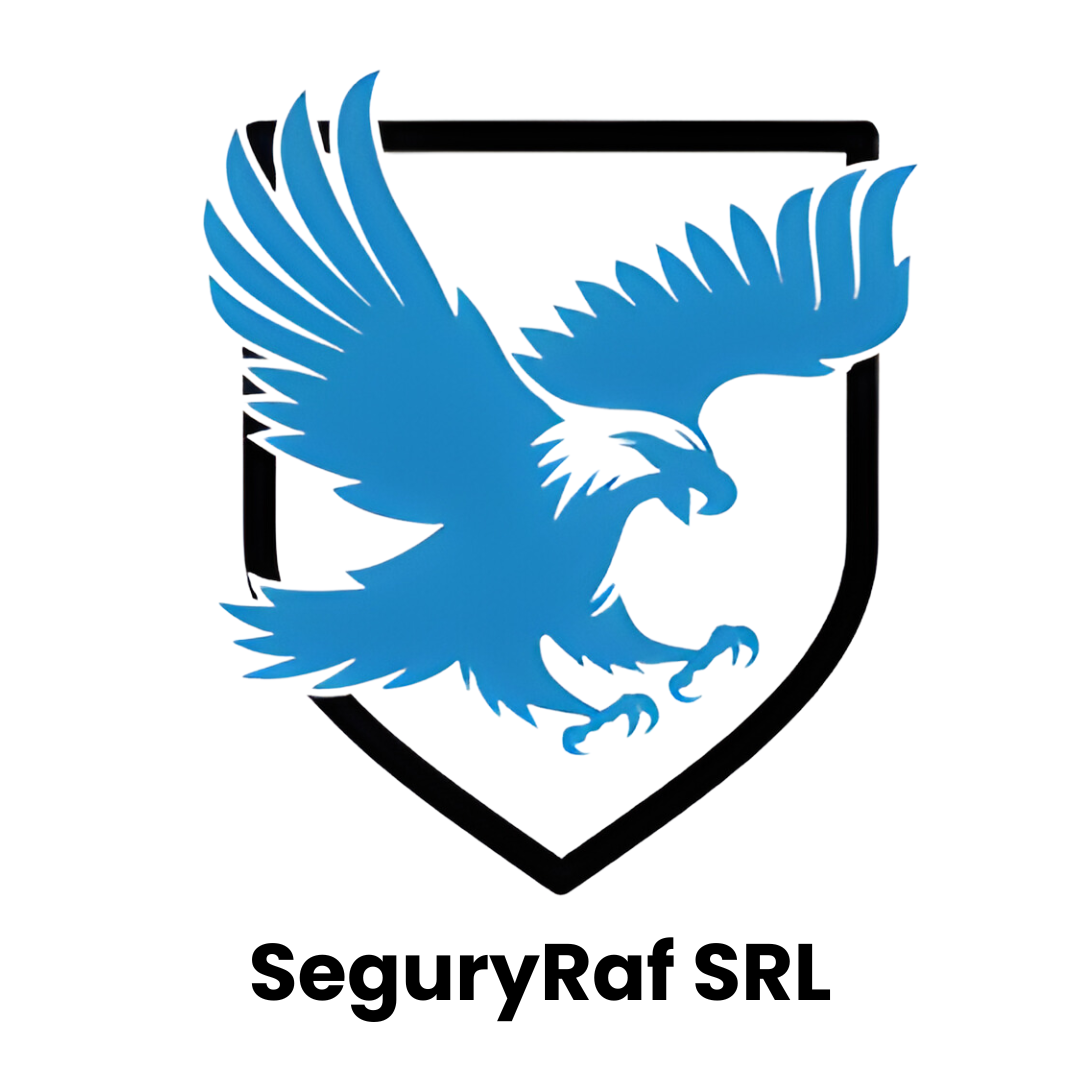
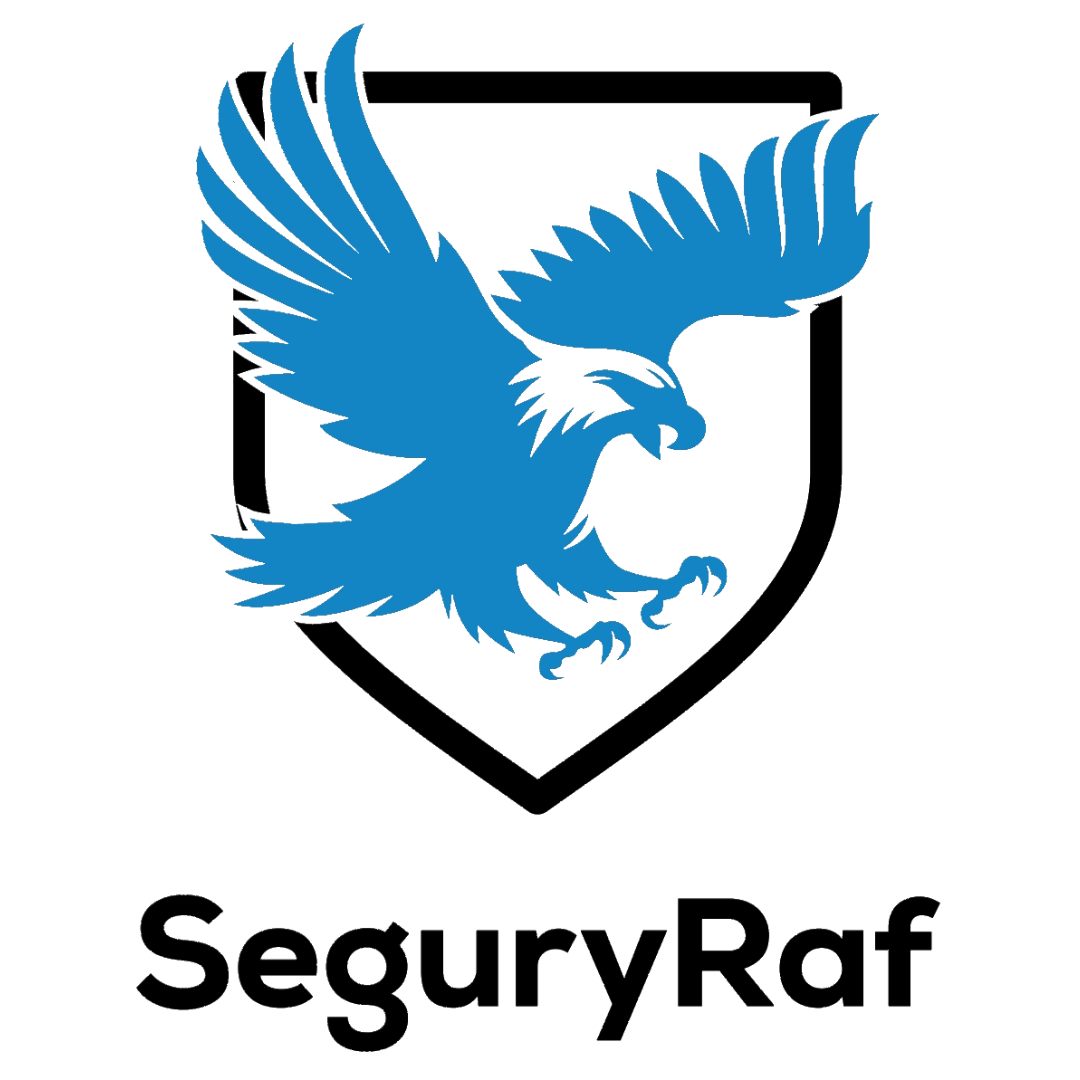
cliente nuevo

Changed region(s): [[0.1833, 0.0306, 0.8556, 0.825], [0.1222, 0.825, 0.8861, 0.9778]]

diff --git a/index.html b/index.html
@@ -257,19 +257,19 @@
     <div class="swiper mySwiper2">
         <div class="swiper-wrapper2">
 
-            <!-- <div class="swiper-slide2">
+            <div class="swiper-slide2">
                 <div class="client-content">
                     <div class="product-txt">
-                        <h3>Everest</h3>
+                        
                     </div>
                     <div class="client-img">
-                        <img src="imagenes/logo-everesrt.png" alt="">
+                        <img src="imagenes/SeguryRaf SRL.png" alt="">
                     </div>
                 </div>
-                <a href="" class="btn-1">Visitar cliente</a>
+                <a href="https://seguryraf.com/" class="btn-1">Visitar cliente</a>
             </div>
 
-            <div class="swiper-slide2">
+            <!-- <div class="swiper-slide2">
                 <div class="client-content">
                     <div class="product-txt">
                         <h3>Bienes raices</h3>

diff --git a/style.css b/style.css
@@ -419,11 +419,11 @@ p {
 }
 
 .client-img img {
-    width: 300px;
+    width: 70%;
 }
 
 .client-img1 img {
-    width: 331px;
+    width: 70%;
 }
 
 .footer-bg {
@@ -688,12 +688,11 @@ textarea {
     }
 
     .client-img img {
-        width: 100%; /* Ajustar el ancho de las imágenes */
+        width: 60%; /* Ajustar el ancho de las imágenes */
     }
 
     .client-img1 img {
-        width: 100%; /* Ajustar el ancho de las imágenes */
-        height: 391px; /* Ajustar el alto de las imágenes */
+        width: 60%; /* Ajustar el ancho de las imágenes */
         object-fit: contain; /* La imagen se ajusta dentro del contenedor */
     }
 
